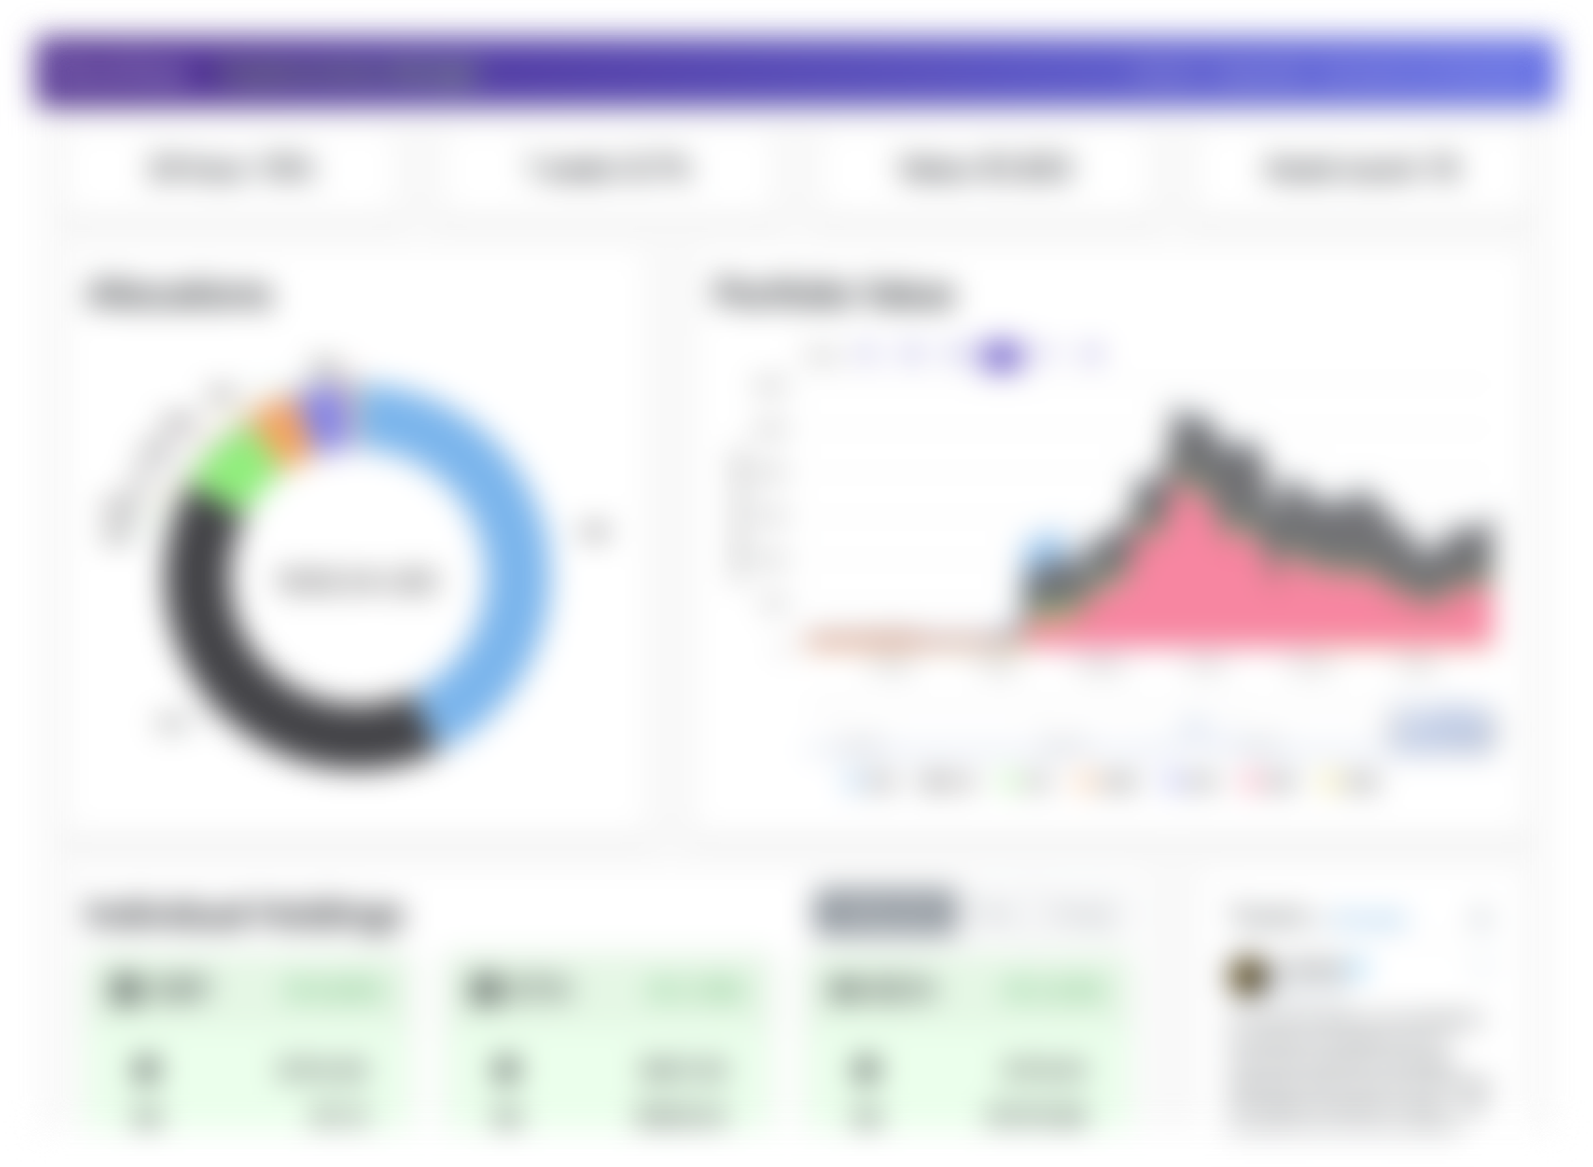
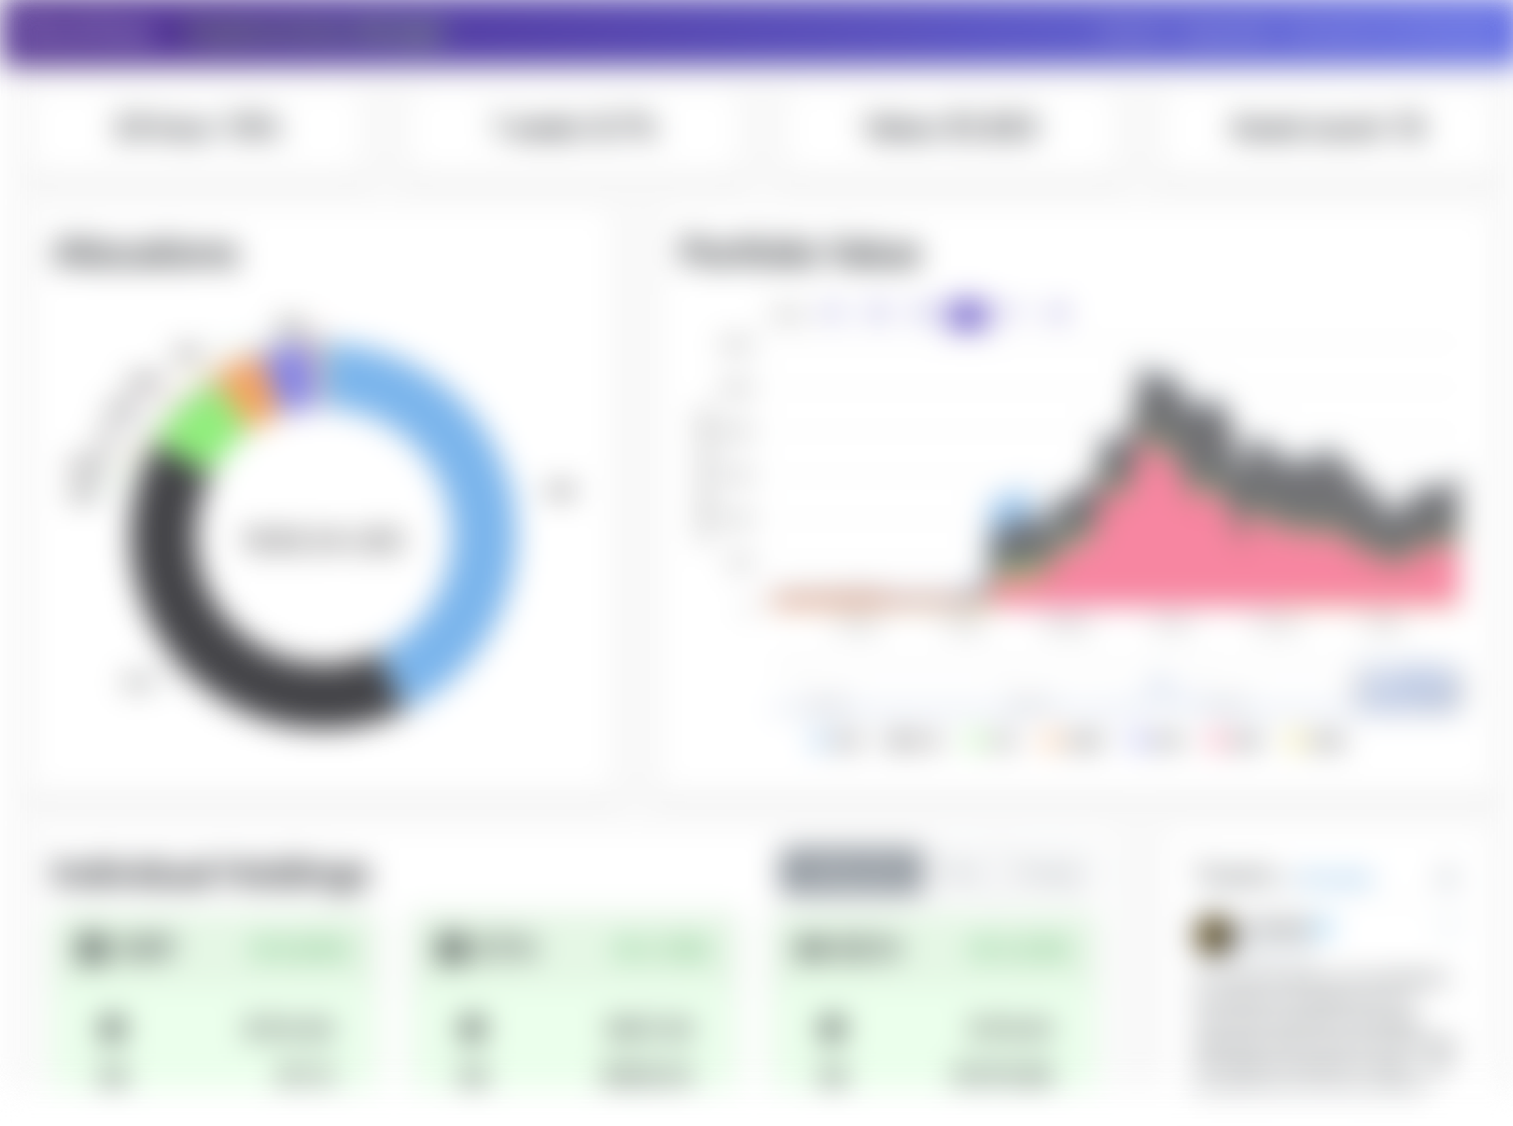
added demo pages, no keys modal

diff --git a/client/src/Components/Demo.js b/client/src/Components/Demo.js
@@ -8,13 +8,13 @@ import InfoAlert from './Site/InfoAlert';
 import NoKeysAlert from './Site/NoKeysAlert';
 import Footer from './Site/Footer';
 import AllocationsCard from './Allocations/AllocationsCard';
-import PerformanceCard from './Performance/PerformanceCard';
+import DemoPerformanceCard from './Performance/DemoPerformanceCard';
 import HoldingsTiles from './Holdings/HoldingsTiles';
-import { fetchPoloniexTicker, fetchPoloniexCompleteBalances } from '../API/poloniex';
+import { fetchPoloniexTicker, fetchDemoPoloniexCompleteBalances } from '../API/poloniex';
 
 import blurredImage from './blurred.png';
 
-class Dashboard extends Component {
+class Demo extends Component {
   constructor(props) {
     super(props);
     this.state = {
@@ -27,7 +27,7 @@ class Dashboard extends Component {
       .then((ticker) => { this.setState({ ticker }); })
       .catch((err) => { console.log(err); });
 
-    fetchPoloniexCompleteBalances()
+    fetchDemoPoloniexCompleteBalances()
       .then((balances) => { this.setState({ balances }); })
       .catch(err => console.log(err));
   }
@@ -38,21 +38,17 @@ class Dashboard extends Component {
       console.log(authentication);
       if (!authentication.user.accountInfo.poloniexKey) {
         console.log('NO KEYS FOUND BRO');
-        return true;
       }
-      return false;
     }
   }
 
-  // // If user is not logged in or is a new user, render the info alert
-  // renderInfoAlert() {
-  //   if (this.props.authentication.user) {
-  //     if (this.props.authentication.user.token === 'DEMO') {
-  //       return <InfoAlert />;
-  //     }
-  //   }
-  //   return (null);
-  // }
+  // If user is not logged in or is a new user, render the info alert
+  renderInfoAlert() {
+    if (!this.props.authentication.loggedIn) {
+      return <InfoAlert />;
+    }
+    return (null);
+  }
 
   // If a user is logged in but doesn't have keys added, render this alert
   // renderNewUserWithoutKeysAlert() {
@@ -67,54 +63,21 @@ class Dashboard extends Component {
 
   render() {
     // If user is logged in but doesn't have any keys associated with their account, give them a modal
-    if (!this.props.authentication.loggedIn) {
-      return (<h1>LOGIN BRO</h1>);
-    }
-    if (this.detectUserWithoutExchangeKeys()) {
+    // if (!this.props.authentication.loggedIn) {
+    //   return (<h1>LOGIN BRO</h1>);
+    // }
+    if (0) {
       return (
-        <div>
-          
-        <Navbar/>
-        <div className="container">
-          <div className="App blurredBackground">
-            <div className="blurredBackground" style={{ backgroundImage: `url(${blurredImage})`, height: '100%' }}>
-              {/* <button type="button" className="btn btn-primary" data-toggle="modal" data-target="#exampleModalCenter">
+        <div className="App blurredBackground">
+          <div className="blurredBackground" style={{ backgroundImage: `url(${blurredImage})`, height: '100%' }}>
+            <button type="button" className="btn btn-primary" data-toggle="modal" data-target="#exampleModalCenter">
               Launch demo modal
-            </button> */}
-              <div className="row">
-                <div className="col">
-                  <div id="demo-modal" className="card text-center mx-auto">
-                    <div className="card-header">
-                      Welcome to BlockZeus - let's get started!
-                    </div>
-                    <div className="card-body">
-                      <p className="card-text">BlockZeus works by integrating with your cryptocurrency exchange. Click on which exchange you'd like to connect first! Alternatively, you can still view the demo.</p>
-                    </div>
-                    <div className="card-footer">
-                      <div className="row">
-                        <div className="col-5">
-                          {/* <a href="#" className="btn btn-info">Connect to Poloniex</a> */}
-                          <button type="button" className="btn btn-block btn-info">Link Poloniex</button>
-                        </div>
-                        <div className="col-5">
-                          {/* <a href="#" className="btn btn-info">Connect to Poloniex</a> */}
-                          <button type="button" className="btn btn-block btn-success">Link Bitfinex (coming soon!)</button>
-                        </div>
-                        <div className="col-2">
-                          <button href="/demo" type="button" className="btn btn-block btn-outline-primary">Demo</button>
-                          {/* <a href="#" className="btn btn-info">Connect to Bitfinex (coming soon)</a> */}
-                        </div>
-                      </div>
-                    </div>
-                  </div>
-                </div>
-              </div>
-            </div>
-            <div className="modal show fade" tabIndex={-1} role="dialog" aria-labelledby="exampleModalCenterTitle" aria-hidden="true">
+            </button>
+            <div className="modal fade" id="exampleModalCenter" tabIndex={-1} role="dialog" aria-labelledby="exampleModalCenterTitle" aria-hidden="true">
               <div className="modal-dialog modal-dialog-centered h-100 d-flex flex-column justify-content-center my-0" role="document">
                 <div className="modal-content">
                   <div className="modal-header">
-                    <h5 className="modal-title">Welcome to BlockZeus!</h5>
+                    <h5 className="modal-title" id="exampleModalLongTitle">Welcome to BlockZeus!</h5>
                     <button type="button" className="close" data-dismiss="modal" aria-label="Close">
                       <span aria-hidden="true">×</span>
                     </button>
@@ -127,7 +90,7 @@ class Dashboard extends Component {
                       <button type="button" className="btn btn-block btn-primary">Link Exchange</button>
                     </div>
                     <div className="col-6">
-                      <button type="button" className="btn btn-block btn-outline-primary">Demo</button>
+                      <button type="button" className="btn btn-block btn-outline-primary">View Demo</button>
                     </div>
                   </div>
                 </div>
@@ -135,7 +98,6 @@ class Dashboard extends Component {
             </div>
           </div>
 
-        </div>
         </div>
       );
     }
@@ -149,9 +111,9 @@ class Dashboard extends Component {
           {this.detectUserWithoutExchangeKeys()}
 
           {/* INFO ALERT */}
-          {/* {this.renderInfoAlert()} */}
+          {this.renderInfoAlert()}
 
-          {/* <button type="button" className="btn btn-primary" data-toggle="modal" data-target="#exampleModalCenter">
+          <button type="button" className="btn btn-primary" data-toggle="modal" data-target="#exampleModalCenter">
             Launch demo modal
           </button>
           <div className="modal fade" id="exampleModalCenter" tabIndex={-1} role="dialog" aria-labelledby="exampleModalCenterTitle" aria-hidden="true">
@@ -176,7 +138,7 @@ class Dashboard extends Component {
                 </div>
               </div>
             </div>
-          </div> */}
+          </div>
 
           {/* ALLOCATIONS AND PERFORMANCE */}
           <div className="row d-flex h-100 flex-row">
@@ -184,7 +146,7 @@ class Dashboard extends Component {
               <AllocationsCard balances={this.state.balances} ticker={this.state.ticker} />
             </div>
             <div className="col-lg-7 d-flex flex-column">
-              <PerformanceCard />
+              <DemoPerformanceCard />
             </div>
           </div>
 
@@ -214,5 +176,5 @@ function mapStateToProps(state) {
   };
 }
 
-const connectedDashboardPage = connect(mapStateToProps)(Dashboard);
-export default connectedDashboardPage;
+const connectedDemo = connect(mapStateToProps)(Demo);
+export default connectedDemo;

diff --git a/client/src/Components/Performance/DemoPerformanceCard.js b/client/src/Components/Performance/DemoPerformanceCard.js
@@ -1,0 +1,74 @@
+import React, { Component } from 'react';
+import PortfolioLineChart from './PortfolioLineChart';
+import { fetchPortfolioPerformance, fetchFullDemoPortfolioPerformance } from '../../API/poloniex';
+
+
+class DemoPerformanceCard extends Component {
+  constructor(props) {
+    super(props);
+    this.state = {
+      portfolioPerformance: [],
+      fullPerformance: {},
+      loaded: false,
+    };
+  }
+
+  componentWillMount() {
+    fetchFullDemoPortfolioPerformance().then((fullPerformance) => {
+      this.setState({ fullPerformance });
+      this.setState({ loaded: true });
+      // console.log(fullPerformance);
+    }).catch(err => console.log(err));
+  }
+
+  renderChart() {
+    return (
+      <div className="card card-section h-100" >
+        <div className="card-body">
+          {/* <h2 className="card-title">Portfolio Value</h2> */}
+          <div className="row">
+            <div className="col-sm-6">
+              <h2 className="card-title">Portfolio Value</h2>
+            </div>
+            <div className="col-sm-6">
+              {/* <button className="btn btn-xs btn-outline-success float-left">
+                Log
+              </button> */}
+            </div>
+          </div>
+          <PortfolioLineChart loaded={this.state.loaded} data={this.state.fullPerformance} />
+        </div>
+      </div>
+    );
+  }
+
+  renderLoading() {
+    return (
+      <div className="card card-section h-100" >
+        <div className="card-body">
+
+          <div className="row">
+            <div className="col-sm-6">
+              <h2 className="card-title">Portfolio Value</h2>
+            </div>
+            <div className="row">
+              <small>hello</small>
+            </div>
+          </div>
+
+          <div className="col"><h2>Loading...</h2></div>
+        </div>
+      </div>
+    );
+  }
+
+  render() {
+    if (1) {
+      return this.renderChart();
+    }
+    return this.renderLoading();
+  }
+}
+
+export default DemoPerformanceCard;
+

diff --git a/client/src/API/poloniex.js b/client/src/API/poloniex.js
@@ -10,6 +10,15 @@ const createAuthHeader = () => {
   };
 };
 
+const createDemoAuthHeader = () => {
+  return {
+    headers: {
+      'Content-Type': 'application/x-www-form-urlencoded',
+      authorization: `Bearer DEMO`,
+    },
+  };
+};
+
 export function fetchPoloniexTicker() {
   console.log('calling /poloniex/ticker');
   return new Promise((resolve, reject) => {
@@ -29,6 +38,22 @@ export function fetchPoloniexCompleteBalances() {
   console.log('calling /poloniex/completeBalances');
   return new Promise((resolve, reject) => {
     fetch('/poloniex/completeBalances', createAuthHeader()).then((res) => {
+      if (!res.ok) {
+        reject(res);
+      } else {
+        res.json().then((data) => {
+          const d = poloObjectToArray(data);
+          resolve(d);
+        });
+      }
+    });
+  });
+}
+
+export function fetchDemoPoloniexCompleteBalances() {
+  console.log('calling /poloniex/completeBalances');
+  return new Promise((resolve, reject) => {
+    fetch('/poloniex/completeBalances', createDemoAuthHeader()).then((res) => {
       if (!res.ok) {
         reject(res);
       } else {
@@ -73,6 +98,18 @@ export function fetchPortfolioPerformance(pair) {
 export async function fetchFullPortfolioPerformance() {
   return new Promise(async (resolve, reject) => {
     fetch('poloniex/fullPerformance', createAuthHeader()).then(async (res) => {
+      if (res.ok) {
+        resolve((await res.json()));
+      } else {
+        reject(res);
+      }
+    });
+  });
+}
+
+export async function fetchFullDemoPortfolioPerformance() {
+  return new Promise(async (resolve, reject) => {
+    fetch('poloniex/fullPerformance', createDemoAuthHeader()).then(async (res) => {
       if (res.ok) {
         resolve((await res.json()));
       } else {

diff --git a/client/src/Components/App.js b/client/src/Components/App.js
@@ -10,6 +10,7 @@ import Account from '../Components/Account/Account';
 import LoginPage from './Account/LoginPage';
 import RegisterPage from './Account/RegisterPage';
 import Dashboard from '../Components/Dashboard';
+import Demo from '../Components/Demo';
 
 // import '../App.css';
 
@@ -30,10 +31,10 @@ class App extends React.Component {
       <Router history={history}>
         <div>
           {/* <Route exact path="/" component={Dashboard} /> */}
-          <Route exact path="/dashboard" component={Dashboard} />
-          <Route exact path="/demo" component={Dashboard} />
+          <Route exact path="/demo" component={Demo} />
           <Route exact path="/login" component={LoginPage} />
           <Route exact path="/register" component={RegisterPage} />
+          <PrivateRoute exact path="/dashboard" component={Dashboard} />
           <PrivateRoute exact path="/account" component={Account} />
         </div>
       </Router>

diff --git a/client/src/_actions/user.actions.js b/client/src/_actions/user.actions.js
@@ -45,7 +45,8 @@ function register(user) {
 
     userService.register(user)
       .then((user) => {
-        dispatch(success());
+        console.log(user);
+        dispatch(success(user));
         history.push('/dashboard');
         dispatch(alertActions.success('Registration successful'));
       })
@@ -57,7 +58,7 @@ function register(user) {
   };
 
   function request(user) { return { type: userConstants.REGISTER_REQUEST, user }; }
-  function success(user) { return { type: userConstants.REGISTER_SUCCESS, user }; }
+  function success(user) { return { type: userConstants.LOGIN_SUCCESS, user }; }
   function failure(error) { return { type: userConstants.REGISTER_FAILURE, error }; }
 }
 

diff --git a/client/src/_reducers/authentication.reducer.js b/client/src/_reducers/authentication.reducer.js
@@ -7,10 +7,12 @@ const user = JSON.parse(localStorage.getItem('user'));
 // If they exist, then they'll carry on as they left off
 let initialState;
 if (!user) {
-  const demoUser = { token: 'DEMO' };
-  localStorage.setItem('user', JSON.stringify(demoUser));
-  initialState = { loggedIn: false, user: demoUser };
+  // console.log('no user found');
+  // const demoUser = { token: 'DEMO' };
+  // localStorage.setItem('user', JSON.stringify(demoUser));
+  initialState = { loggedIn: false };
 } else {
+  console.log('user found');
   initialState = { loggedIn: true, user };
 }
 // const initialState = user ? { loggedIn: true, user } : { loggedIn: false, user: demoUser };

diff --git a/client/src/Components/Site/InfoAlert.js b/client/src/Components/Site/InfoAlert.js
@@ -13,6 +13,7 @@ class DemoAlert extends Component {
           <li><b> Current News </b> by @coindesk (configurable from your account)</li>
         </p>
         <p>If you have any questions or comments reach out to adam@blockzeus.com, or leave feedback <a href="https://goo.gl/forms/XcIs6gZS4qBphFeA3" target="_blank" className="alert-link">here</a> :)</p>
+        <button className="btn btn-outline-primary">Sign Up</button>
 
         <button type="button" className="close" data-dismiss="alert" aria-label="Close">
           <span aria-hidden="true">&times;</span>

diff --git a/client/src/index.css b/client/src/index.css
@@ -48,6 +48,14 @@
   border-top: 0px solid #e9ecef !important;
 }
 
+#demo-modal {
+  margin-top: 10%;
+  max-width: 700px;
+}
+.card-footer {
+  border-top: 0px;
+}
+
 .blurredBackground {
   /* Set rules to fill background */
   min-height: 100%;

diff --git a/client/src/_services/user.service.js b/client/src/_services/user.service.js
@@ -64,6 +64,8 @@ function register(user) {
         console.log(user);
         localStorage.setItem('user', JSON.stringify(userResponse));
       }
+      console.log(userResponse);
+      return userResponse;
     });
 }
 
